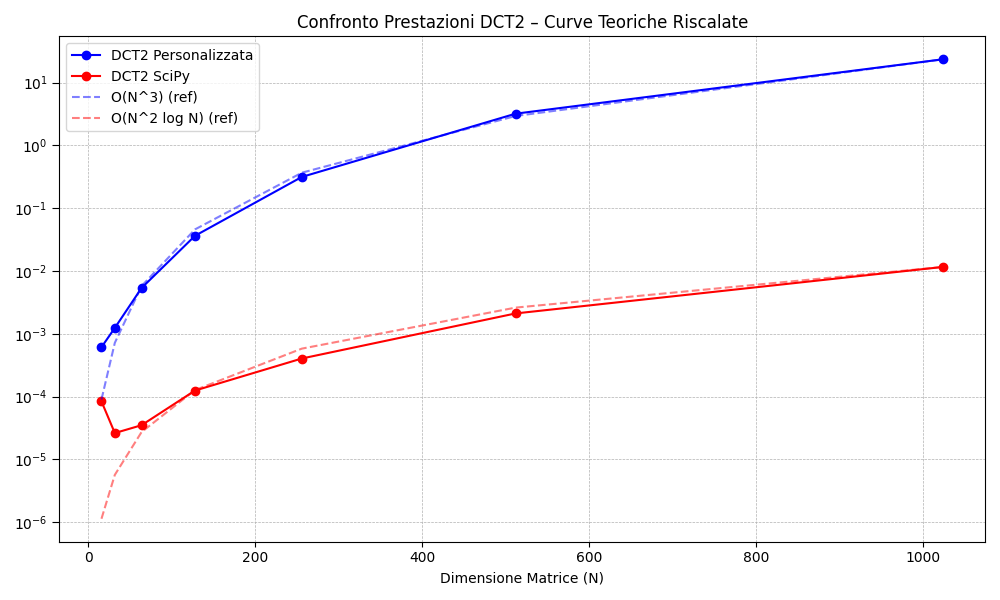
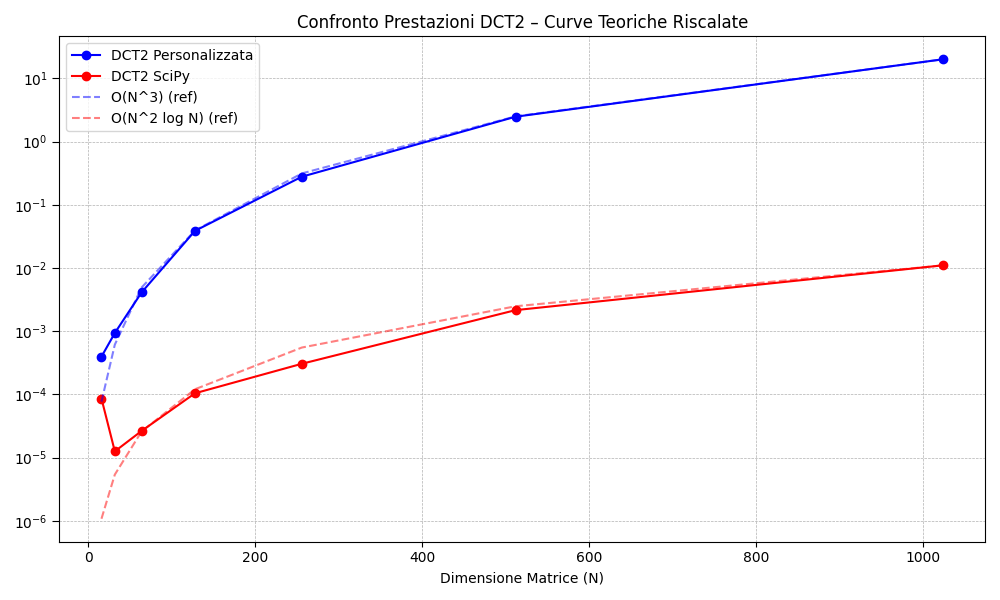
update

diff --git a/app.py b/app.py
@@ -15,8 +15,8 @@ st.title("Trasformata DCT-II su Immagini BMP")
 uploaded_file = st.file_uploader("Carica un file BMP", type=["bmp"])
 
 if uploaded_file:
-    # Converte l'immagine in scala di grigi
-    img = Image.open(io.BytesIO(uploaded_file.read())).convert("L")
+    original_bytes = uploaded_file.read()
+    img = Image.open(io.BytesIO(original_bytes)).convert("L")
     arr = np.array(img)
     H, W = arr.shape
     st.write(f"Dimensione immagine: {W} × {H} px")
@@ -27,15 +27,15 @@ if uploaded_file:
     F = st.number_input("Dimensione del blocco F",
                         min_value=1, max_value=max_F, value=10, step=1)
     max_d = 2 * F - 2
-    d = st.slider(f"Soglia di taglio delle frequenze d (0 ≤ d ≤ {
-                  max_d})", min_value=0, max_value=max_d, value=min(10, max_d))
+    d = st.slider(f"Soglia di taglio delle frequenze d (0 ≤ d ≤ {max_d})",
+                  min_value=0, max_value=max_d, value=min(10, max_d))
 
     # Ritaglio dell'immagine per essere divisibile per F
     H2, W2 = (H // F) * F, (W // F) * F
     arr_crop = arr[:H2, :W2]
     out = np.zeros_like(arr_crop)
 
-    # Creazione della maschera (k + l ≥ d → azzeramento)
+    # Maschera compressione
     k, l = np.arange(F)[:, None], np.arange(F)[None, :]
     mask = (k + l) >= d
 
@@ -49,20 +49,37 @@ if uploaded_file:
             rec = np.clip(rec, 0, 255)
             out[bi:bi+F, bj:bj+F] = rec
 
-    # Visualizzazione immagini originali e ricostruite
-    col1, col2 = st.columns(2)
-    col1.image(arr_crop, caption="Immagine originale",
-               clamp=True, channels="L")
-    col2.image(out, caption=f"Immagine ricostruita (F = {
-               F}, d = {d})", clamp=True, channels="L")
+    # Conversione per salvataggio in PNG
+    reconstructed_img = Image.fromarray(out.astype(np.uint8))
+    buf = io.BytesIO()
+    reconstructed_img.save(buf, format="PNG")
+    img_bytes = buf.getvalue()
 
-    # Visualizzazione maschera di compressione
+    # Visualizzazione immagini con dimensioni file
+    col1, col2 = st.columns(2)
+
+    with col1:
+        st.image(arr_crop, caption="Immagine originale", clamp=True, channels="L")
+        st.caption(f"Dimensione file originale: {len(original_bytes)//1024} KB")
+
+    with col2:
+        st.image(out, caption=f"Immagine ricostruita (F = {F}, d = {d})", clamp=True, channels="L")
+        st.caption(f"Dimensione file PNG: {len(img_bytes)//1024} KB")
+
+    # Pulsante per il download in formato PNG
+    st.download_button(
+        label="📥 Scarica immagine compressa (PNG)",
+        data=img_bytes,
+        file_name="immagine_compressa.png",
+        mime="image/png"
+    )
+
+    # Visualizzazione maschera
     c_viz = mask.astype(int)
     cmap = ListedColormap(['yellow', 'red'])
 
     fig, ax = plt.subplots(figsize=(5, 5))
-    im = ax.imshow(c_viz, cmap=cmap, origin='upper', interpolation='none')
-
+    ax.imshow(c_viz, cmap=cmap, origin='upper', interpolation='none')
     ax.set_xticks(np.arange(0, F))
     ax.set_yticks(np.arange(0, F))
     ax.set_xticklabels(np.arange(0, F))

diff --git a/test.py b/test.py
@@ -46,11 +46,31 @@ print("Eseguendo le trasformazioni con scipy.fft.dct e confrontando i risultati.
 # type=2 specifica la DCT-II standard
 computed_dct1_row1 = dct(first_row, norm='ortho')
 
+for i in range(len(computed_dct1_row1)):
+    print(f"Elemento {i}: Calcolato = {computed_dct1_row1[i]:.7e}, Atteso = {expected_dct1_row1[i]:.7e}, Differenza = {(computed_dct1_row1[i] - expected_dct1_row1[i]):.7e}")
+
 # Calcola la DCT-II 2D dell'intera matrice usando scipy.
 # Per la 2D con la funzione 1D dct di fftpack, la si applica prima per le colonne (axis=0)
 # e poi sul risultato per le righe (axis=1), mantenendo la normalizzazione.
+print()
+print()
 computed_dct2_matrix = dctn(input_matrix, norm='ortho')
+# Stampo i risultati da (0, 0) a (0, 7)
+for j in range(8):
+    i = 0
+    print(f"Elemento [{i}, {j}]: Calcolato = {computed_dct2_matrix[i, j]:.7e}, Atteso = {expected_dct2_matrix[i, j]:.7e}, Differenza = {(computed_dct2_matrix[i, j] - expected_dct2_matrix[i, j]):.7e}")
 
+
+print(f"Elemento [{7}, {7}]: Calcolato = {computed_dct2_matrix[7, 7]:.7e}, Atteso = {expected_dct2_matrix[7, 7]:.7e}, Differenza = {(computed_dct2_matrix[7, 7] - expected_dct2_matrix[7, 7]):.7e}")
+# stampo errore quadratico medio (MSE) per la DCT-II 2D
+mse_dct2 = np.mean((computed_dct2_matrix - expected_dct2_matrix) ** 2)
+print(f"\nErrore Quadratico Medio (MSE) per la DCT-II 2D: {mse_dct2:.7e}")
+
+# stampo errore relativo massimo (Max Relative Error) per la DCT-II 2D
+max_relative_error_dct2 = np.max(
+    np.abs((computed_dct2_matrix - expected_dct2_matrix) / expected_dct2_matrix)
+)
+print(f"Errore Relativo Massimo per la DCT-II 2D: {max_relative_error_dct2:.7e}")
 
 # Confronta i risultati usando np.allclose per gestire le imprecisioni floating point.
 rtol = 1e-2

diff --git a/log_benchmark_csv.py b/log_benchmark_csv.py
@@ -1,0 +1,33 @@
+import csv
+
+def save_benchmark_csv(custom_times, scipy_times, sizes, filename="benchmark_results.csv"):
+    """
+    Salva i risultati del benchmark base in formato CSV con notazione scientifica
+    
+    Args:
+        custom_times: lista dei tempi dell'implementazione custom
+        scipy_times: lista dei tempi dell'implementazione SciPy
+        sizes: lista delle dimensioni delle matrici testate
+        filename: nome del file CSV di output
+    
+    Returns:
+        str: percorso del file salvato
+    """
+    with open(filename, 'w', newline='', encoding='utf-8') as csvfile:
+        writer = csv.writer(csvfile)
+        
+        # Header del CSV
+        writer.writerow(['Matrix_Size', 'Custom_Time_s', 'SciPy_Time_s', 'Speedup'])
+        
+        # Scrivi i dati con notazione scientifica
+        for i, size in enumerate(sizes):
+            print(f"Processing size: {size}x{size}")
+            row = [
+                size,
+                f"{custom_times[i]:.2e}",
+                f"{scipy_times[i]:.2e}",
+            ]
+            writer.writerow(row)
+    
+    print(f"Risultati salvati in CSV: {filename}")
+    return filename

diff --git a/benchmark.py b/benchmark.py
@@ -8,11 +8,21 @@ def benchmark_dct2(sizes):
     custom_times = []
     scipy_times = []
     for N in sizes:
-        matrix = np.random.rand(N, N)
-        start = time.perf_counter()
-        custom_dct2(matrix)
-        custom_times.append(time.perf_counter() - start)
-        start = time.perf_counter()
-        dctn(matrix, norm='ortho')
-        scipy_times.append(time.perf_counter() - start)
+        matrix = np.random.uniform(0, 255, (N, N))
+        
+        # repeat the test 10 times for each size to get an average time
+        custom_time = 0
+        scipy_time = 0
+       
+        for _ in range(10):
+            start_time = time.time()
+            custom_dct2(matrix)
+            custom_time += time.time() - start_time
+            start_time = time.time()
+            dctn(matrix, type=2, norm='ortho')
+            scipy_time += time.time() - start_time
+       
+        custom_times.append(custom_time / 10)
+        scipy_times.append(scipy_time / 10)
+
     return custom_times, scipy_times

diff --git a/main.py b/main.py
@@ -1,12 +1,12 @@
 from benchmark import benchmark_dct2
 from plot_utils import plot_performance
-
+from log_benchmark_csv import save_benchmark_csv
 
 def main():
     sizes = [2**i for i in range(4, 11)]
     custom_times, scipy_times = benchmark_dct2(sizes)
     plot_performance(sizes, custom_times, scipy_times)
-
+    save_benchmark_csv(custom_times, scipy_times, sizes)
 
 if __name__ == '__main__':
     main()

diff --git a/plot_utils.py b/plot_utils.py
@@ -23,7 +23,7 @@ def plot_performance(sizes, custom_times, scipy_times,
     plt.semilogy(sizes, custom_times, 'bo-', label='DCT2 Personalizzata')
     plt.semilogy(sizes, scipy_times, 'ro-', label='DCT2 SciPy')
 
-    # Curve teoriche normalizzate
+    # Curve teoriche normalizzascipy.fft.tscipy.fft.e
     n_vals = np.array(sizes)
     n3_raw = n_vals**3
     n2logn_raw = n_vals**2 * np.log2(n_vals)
